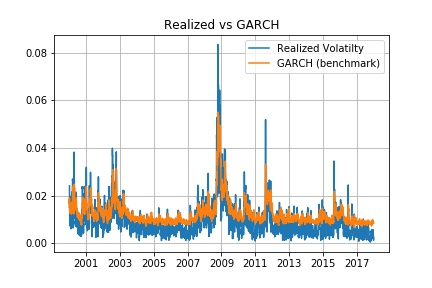
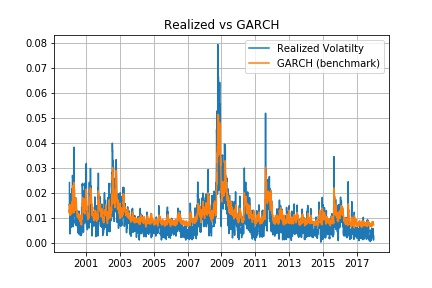
Benchmark Results
Predicted volatility 5-days ahead using GARCH(1,1) and calculated its MSE

diff --git a/src/main.py b/src/main.py
@@ -23,7 +23,8 @@ options_implied_vol_df = options_implied_vol_data_clean(options_implied_vol_df)
 options_implied_vol_df = combine_data(options_implied_vol_df, spx_data_df)
 fridays_list = list(options_implied_vol_df.resample('W-Fri',
                                                     on='date')['date'].last())
-spx_data = pd.read_csv("../data/spx_data.csv")
+spx_data = spx_data_df[['Dates', 'PX_LAST']]
+spx_data.rename(columns={'PX_LAST':'SPX'}, inplace=True)
 spx_data["Dates"] =  pd.to_datetime(spx_data["Dates"])
 spx_data["Returns"] = spx_data["SPX"].pct_change()
 spx_data["Std Dev"] = spx_data["Returns"].rolling(5).std()
@@ -32,19 +33,48 @@ spx_data["Std Dev"] = spx_data["Returns"].rolling(5).std()
 ###############################################################################
 ## B. Variance Series Smoothing, and Baselining
 ###############################################################################
+returns_series = spx_data["Returns"].dropna().values
+num_points = returns_series.size
+train_idx = int(num_points*0.6)
+cv_idx = int(num_points*0.85)
+X_train = returns_series[:train_idx]
+X_cv = returns_series[train_idx:cv_idx]
+X_test = returns_series[cv_idx:]
+dates = spx_data["Dates"][1:cv_idx]
 
-fitted_result = fit_garch_model(ts= spx_data["Returns"] .dropna())
-fitted_vol = fitted_result.conditional_volatility
-spx_data["Fitted Vol"] = np.nan
-spx_data["Fitted Vol"][1:] = fitted_vol
-plt.plot(spx_data["Dates"],spx_data["Std Dev"],label = "Realized Volatilty")
-plt.plot(spx_data["Dates"],spx_data["Fitted Vol"],
-         label = "GARCH (benchmark)")
+fitted_result = fit_garch_model(ts=np.append(X_train, X_cv))
+# Forecast 1 week ahead volatility on the cv set
+forecast_vol = fitted_result.forecast(horizon=5, start=train_idx,
+                                      align='target').variance
+forecast_vol.dropna(inplace=True)
+forecast_vol = np.sqrt(forecast_vol['h.5'].values)
+# Drop the 1st value since it's NaN
+fitted_vol = fitted_result.conditional_volatility[1:]
+
+# Plot Benchmark against Realized Vol for entire series
+plt.plot(dates, spx_data["Std Dev"][1:cv_idx], label = "Realized Volatilty")
+plt.plot(dates, fitted_vol, label = "GARCH (benchmark)")
 plt.legend()
 plt.grid()
+plt.xticks(rotation=90.)
 plt.title("Realized vs GARCH")
 plt.savefig("./Results/Fitted_Realized_Vol.jpg")
-spx_data.to_csv("./Results/SPX_data_with_fitted_vol.csv")
+
+# Plot 1-week ahead Benchmark volatility against Realized Vol for test set
+forecast_dates = dates[(train_idx+4):]
+y_cv_true = spx_data.loc[spx_data["Dates"].isin(forecast_dates),
+                         "Std Dev"].values
+plt.plot(forecast_dates, y_cv_true, label = "Realized Volatilty")
+plt.plot(forecast_dates, forecast_vol, label = "GARCH (benchmark)")
+plt.legend()
+plt.grid()
+plt.xticks(rotation=90.)
+plt.title("Realized vs GARCH")
+plt.savefig("./Results/Forecasted_Realized_Vol.jpg")
+
+# Calculate Benchmark Values on the CV set
+garch_cv_mse = np.mean((y_cv_true - forecast_vol)**2)
+print('The Benchmark MSE on the cv is {:.2e}'.format(garch_cv_mse))
 #%%
 ###############################################################################
 ## C. Feature Creation

diff --git a/src/helpers.py b/src/helpers.py
@@ -20,8 +20,9 @@ def fit_garch_model(ts, p=1, q=1):
     ''' Takes in the time series returns
     returns the parameters. Default params are p=1
     and q=1 '''
-    garch_model = arch_model(y=ts, mean="Constant",
-                             p=1, q=1)
+    garch_model = arch_model(y=ts, mean="HAR", lags=[1], vol="garch",
+                             p=p, q=q)
+    #garch_model = arch_model(y=ts, vol='Garch', p=p, o=0, q=q, dist='Normal')
     model_result = garch_model.fit()
     # params = model_result.params
     return(model_result)
